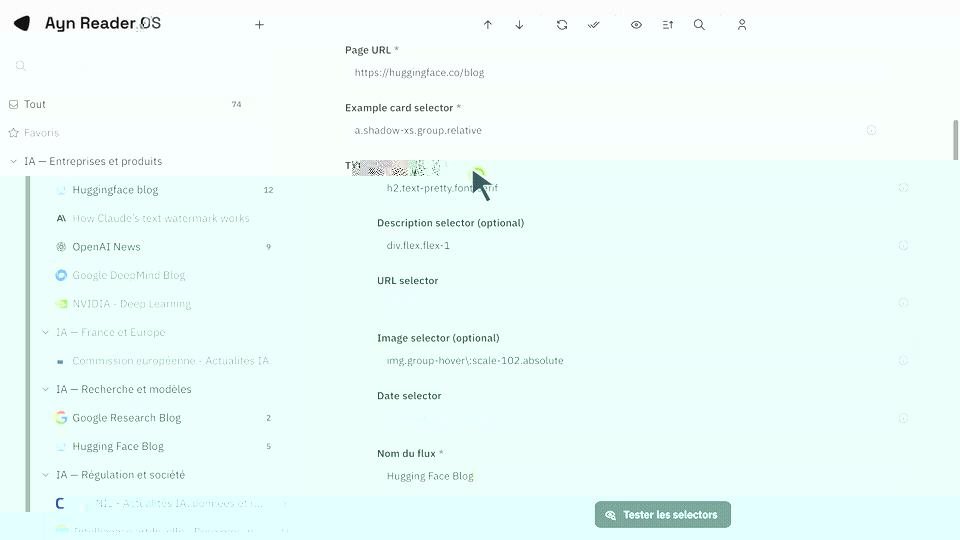
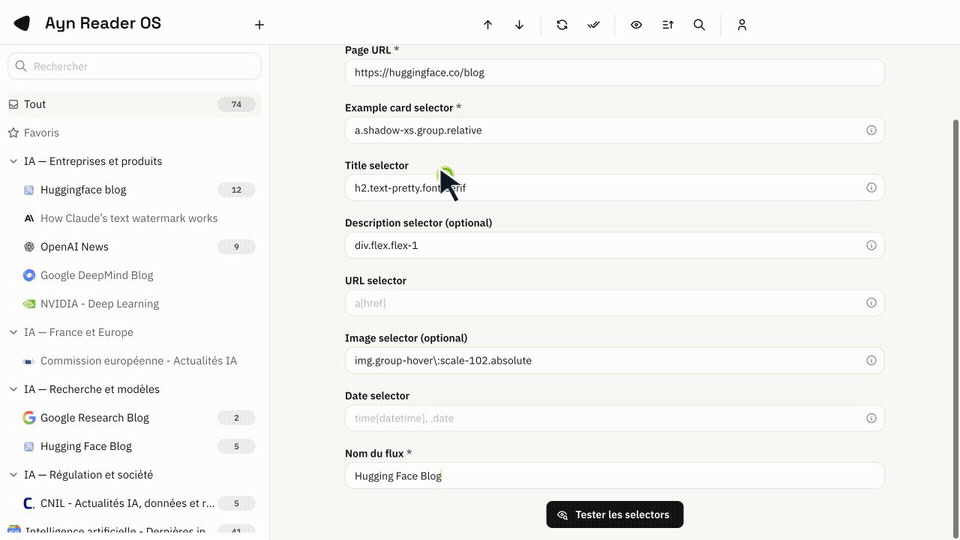
docs: preserve screenshots and refresh overview

diff --git a/README.md b/README.md
@@ -16,7 +16,7 @@
   <a href="#creer-une-newsletter">Newsletter</a>
 </p>
 
-![AynReader OS - lecture et organisation de la veille](docs/images/reader-overview.png)
+![AynReader OS - lecture et organisation de la veille](docs/images/reader-overview.jpg)
 
 ## Pourquoi AynReader OS ?
 
